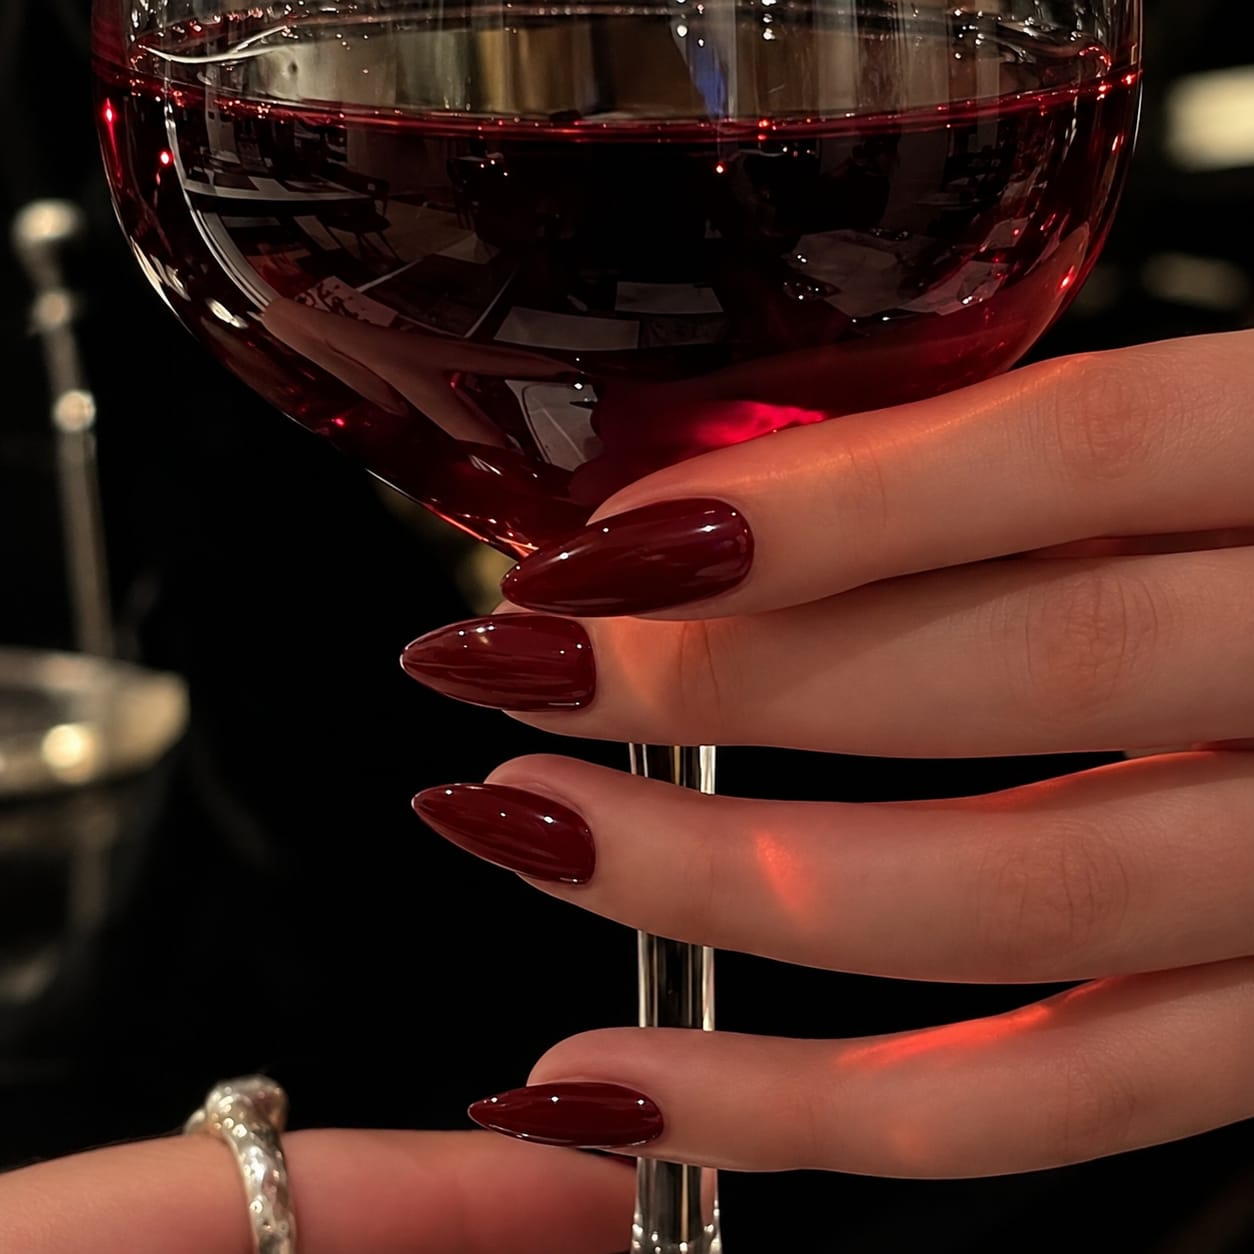
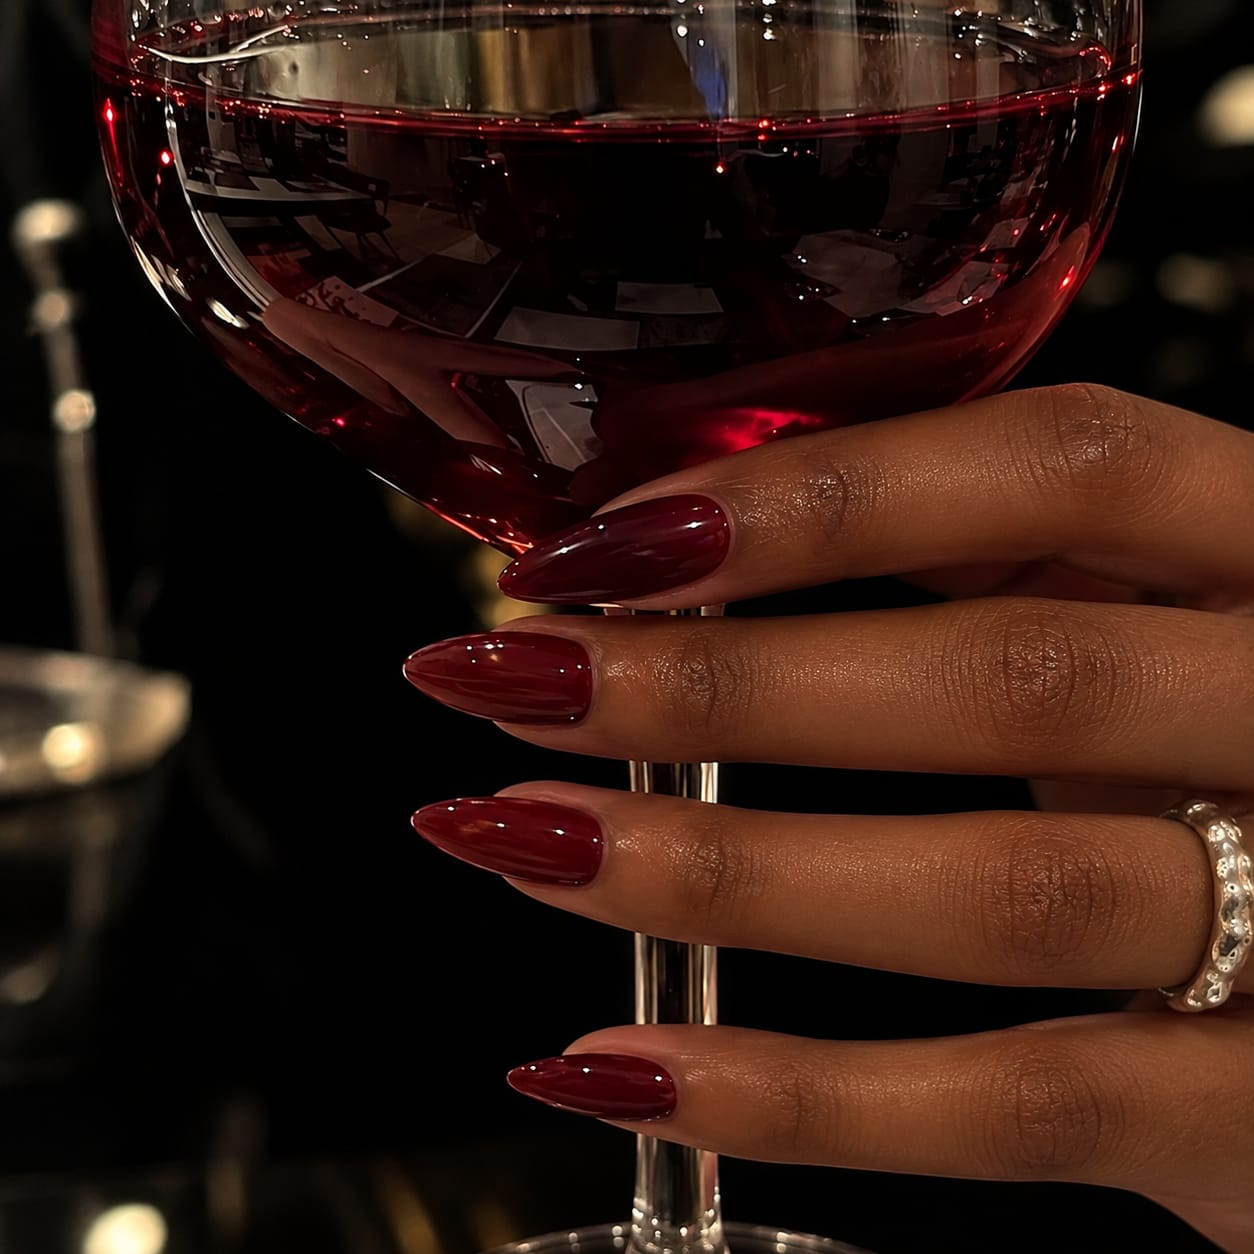
booking slots change

diff --git a/index.html b/index.html
@@ -28,6 +28,7 @@
     </header>
 
     <!-- Hero Section -->
+    
     <section class="hero-section">
         <div class="hero-content">
         <!-- Top Notice Header Line inside Hero -->
@@ -41,9 +42,11 @@
         <!-- Centered Image Container below text -->
         <div class="hero-image-container">
             <img src="hero banner image.jpeg" alt="Beautiful pink acrylic nails background">
-            <div class="hero-badge">Soft hands, Pretty nails, Big dreams ✨</div>
+            
         </div>
     </section>
+
+
     <!-- Our Services & Prices Section -->
     <section id="services" class="services-section">
         <div class="section-title-block">
@@ -60,6 +63,7 @@
                     <li><span>Tips & Gel</span> <span class="price-lbl">Ksh 600</span></li>
                     <li><span>Acrylics</span> <span class="price-lbl">Ksh 700</span></li>
                     <li><span>Gel Overlay</span> <span class="price-lbl">Ksh 700</span></li>
+                    <li><span>💕complex art work and designs may include extra charges 💕</span></li>
                 </ul>
             </div>
 
@@ -106,7 +110,7 @@
     <section id="availability" class="availability-section">
         <div class="section-title-block">
             <h2><span class="calendar-icon">📅</span> Availability</h2>
-            <p class="cursive-subtitle">Book your slot and let's make it happen ♡</p>
+            <p class="cursive-subtitle">click an available and let's make it happen ♡</p>
         </div>
 
         <div class="calendar-columns-container">
@@ -117,8 +121,8 @@
                 <div class="time-slot open-slot" data-day="Monday Oct 12" data-time="1:00 PM - 3:30 PM">
                     1:00 PM - 3:30 PM <span class="slot-badge">Available</span>
                 </div>
-                <div class="time-slot filled-slot">
-                    4:00 PM - 6:30 PM <span class="slot-badge">Booked</span>
+                <div class="time-slot open-slot" data-day="Monday Oct 12" data-time="4:00 PM - 6:30 PM">
+                    4:00 PM - 6:30 PM <span class="slot-badge">Available</span>
                 </div>
                 </div>
             </div>
@@ -127,8 +131,8 @@
             <div class="calendar-day-box">
                 <h3>Tuesday <span>Oct 13</span></h3>
                 <div class="day-slots-wrapper">
-                <div class="time-slot filled-slot">
-                    1:00 PM - 3:30 PM <span class="slot-badge">Booked</span>
+                <div class="time-slot open-slot" data-day="Tuesday Oct 13" data-time="1:00 PM - 3:30 PM">
+                    1:00 PM - 3:30 PM <span class="slot-badge">Available</span>
                 </div>
                 <div class="time-slot open-slot" data-day="Tuesday Oct 13" data-time="4:00 PM - 6:30 PM">
                     4:00 PM - 6:30 PM <span class="slot-badge">Available</span>
@@ -169,11 +173,11 @@
             <div class="calendar-day-box">
                 <h3>Friday <span>Oct 9</span></h3>
                 <div class="day-slots-wrapper">
-                <div class="time-slot open-slot" data-day="Friday Oct 9" data-time="1:00 PM - 3:30 PM">
-                    1:00 PM - 3:30 PM <span class="slot-badge">Available</span>
+                <div class="time-slot filled-slot">
+                    1:00 PM - 3:30 PM <span class="slot-badge">Booked</span>
                 </div>
-                <div class="time-slot open-slot" data-day="Friday Oct 9" data-time="4:00 PM - 6:30 PM">
-                    4:00 PM - 6:30 PM <span class="slot-badge">Available</span>
+                <div class="time-slot filled-slot">
+                    4:00 PM - 6:30 PM <span class="slot-badge">Booked</span>
                 </div>
                 </div>
             </div>
@@ -182,14 +186,14 @@
             <div class="calendar-day-box">
                 <h3>Saturday <span>Oct 10</span></h3>
                 <div class="day-slots-wrapper">
-                <div class="time-slot open-slot" data-day="Saturday Oct 10" data-time="10:00 AM - 12:30 PM">
-                    10:00 AM - 12:30 PM <span class="slot-badge">Available</span>
+                <div class="time-slot filled-slot">
+                    10:00 AM - 12:30 PM <span class="slot-badge">Booked</span>
                 </div>
-                <div class="time-slot open-slot" data-day="Saturday Oct 10" data-time="1:00 PM - 3:30 PM">
-                    1:00 PM - 3:30 PM <span class="slot-badge">Available</span>
+                <div class="time-slot filled-slot">
+                    1:00 PM - 3:30 PM <span class="slot-badge">Booked</span>
                 </div>
-                <div class="time-slot open-slot" data-day="Saturday Oct 10" data-time="4:00 PM - 6:30 PM">
-                    4:00 PM - 6:30 PM <span class="slot-badge">Available</span>
+                <div class="time-slot filled-slot">
+                    4:00 PM - 6:30 PM <span class="slot-badge">Booked</span>
                 </div>
                 </div>
             </div>
